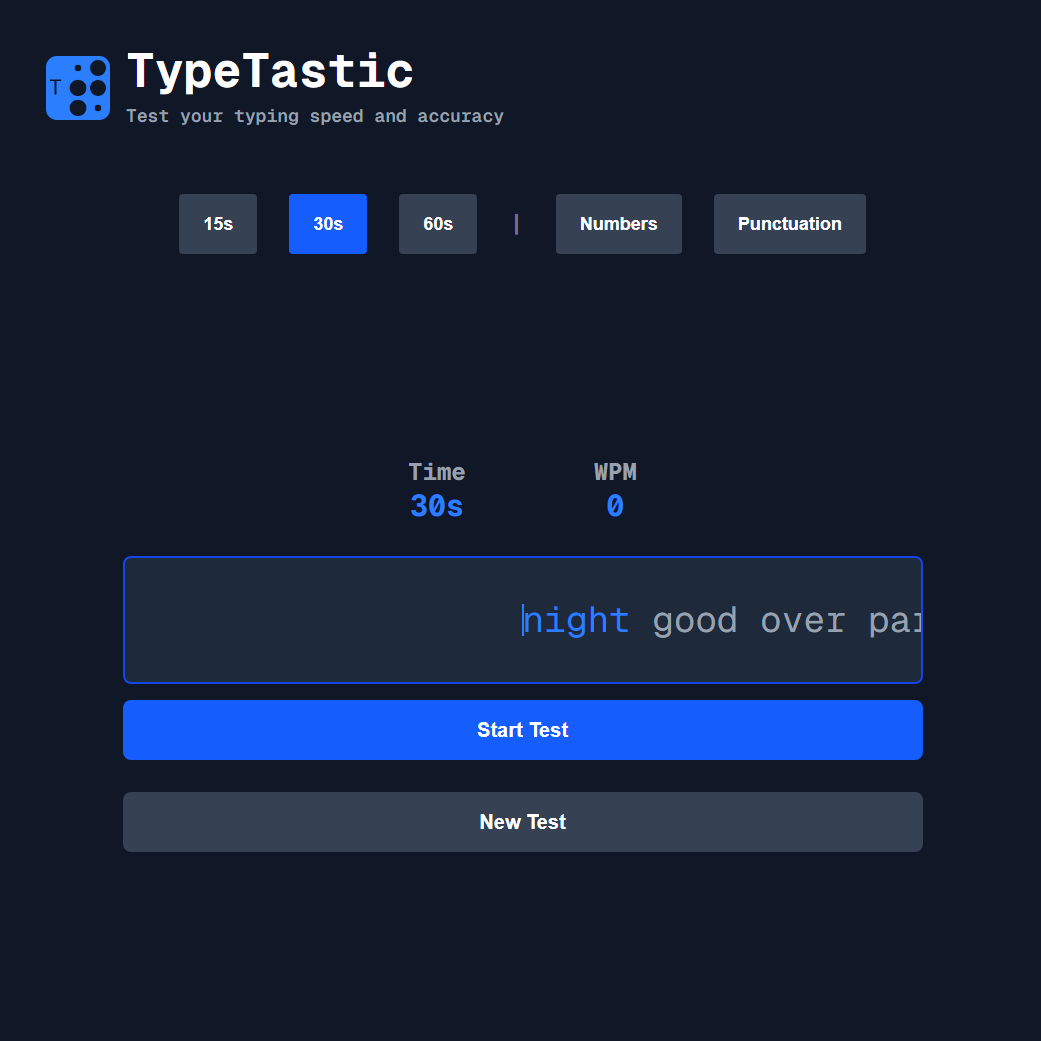
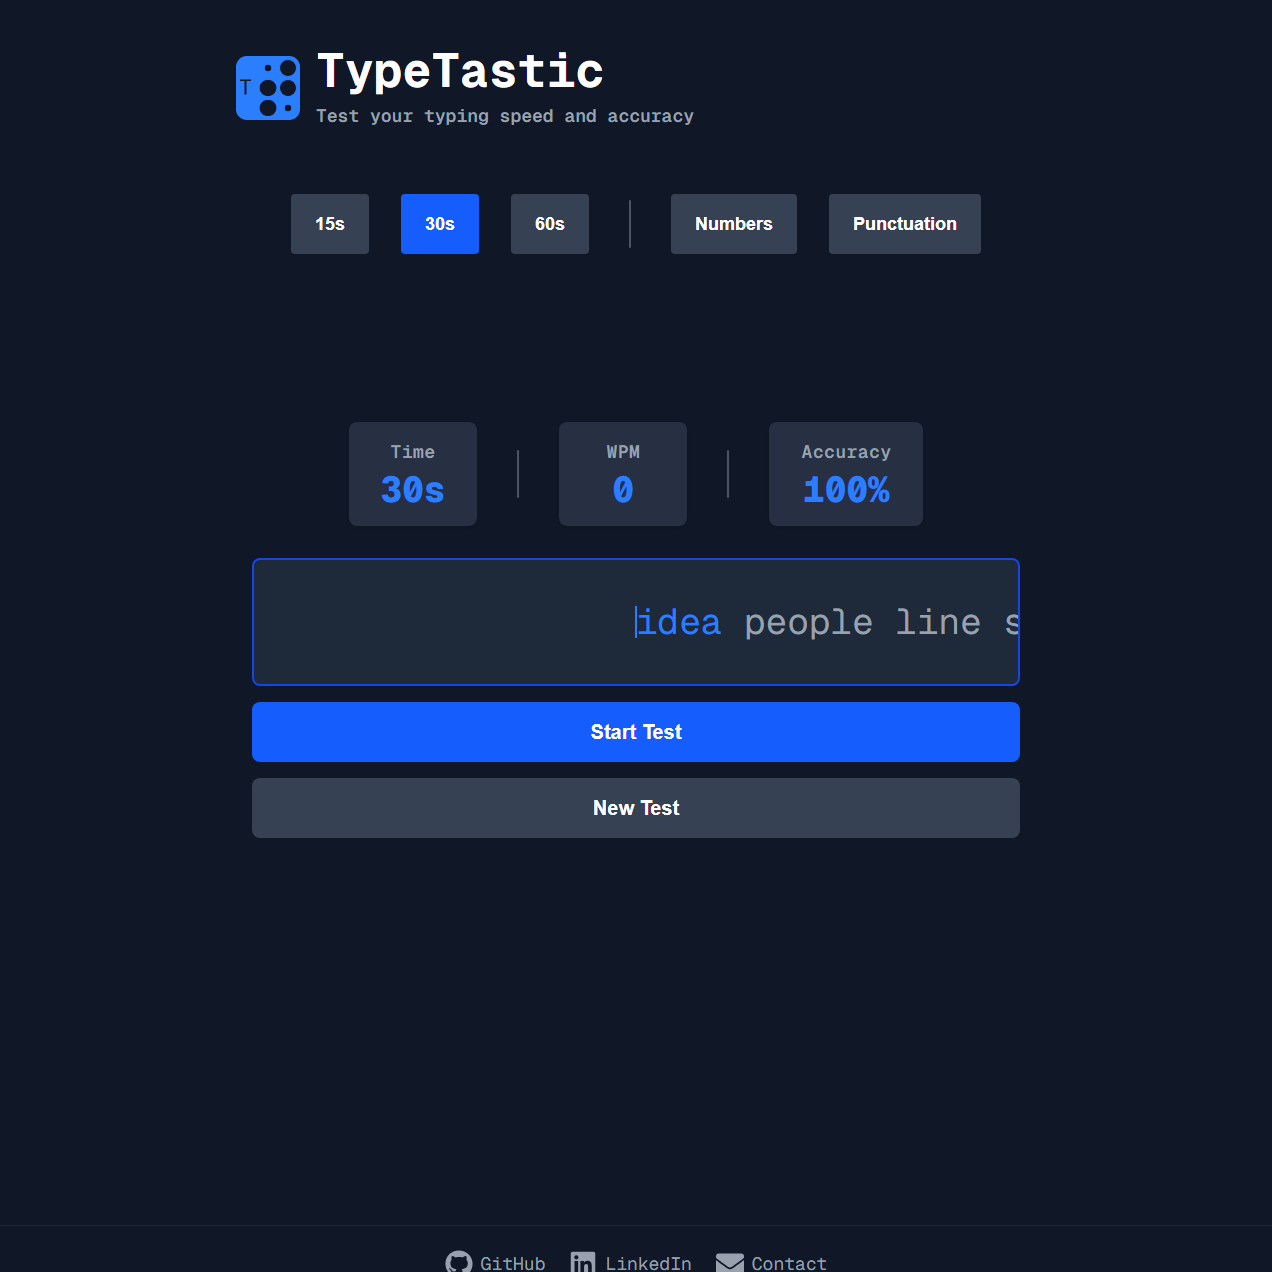
updated project

diff --git a/src/components/Projects.tsx b/src/components/Projects.tsx
@@ -5,9 +5,10 @@ export default function Projects() {
     technologies: ['Next.js', 'TypeScript', 'Tailwind CSS'],
     features: [
       'Unique test generation for varied practice',
-      'Real-time typing performance metrics',
+      'Real-time typing performance and accuracy metrics',
       'Customizable test durations',
       'Customizable text generation',
+      'Responsive modern design'
     ],
     repo: 'https://github.com/JacobLiberty/typetastic',
     live: 'https://jacobliberty.github.io/typetastic/'
